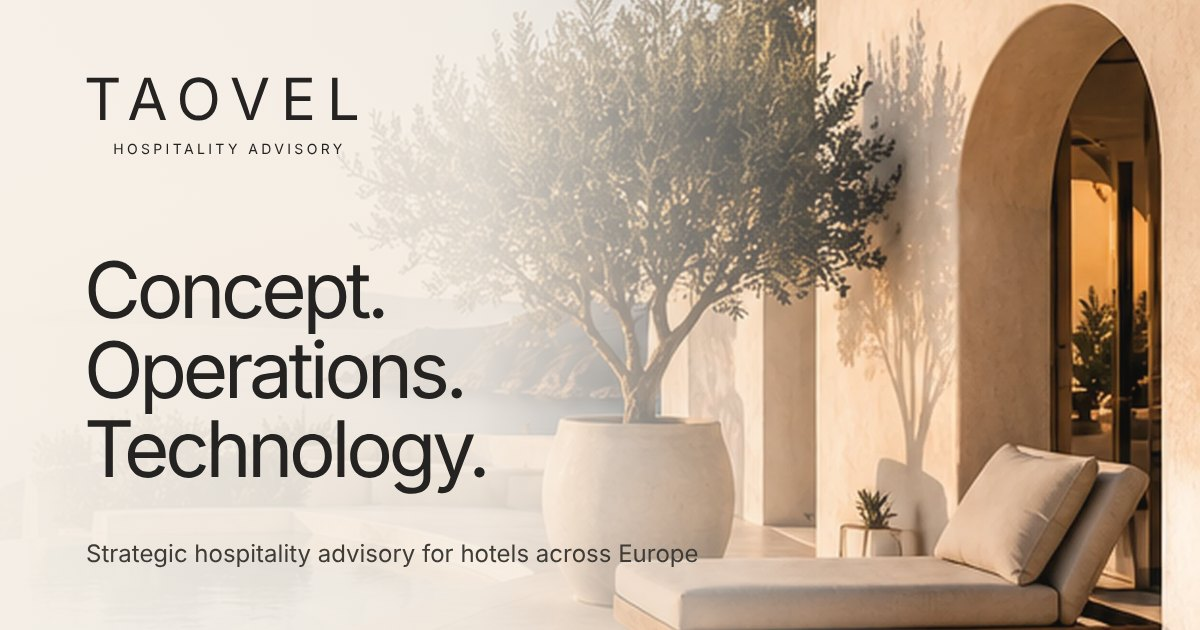
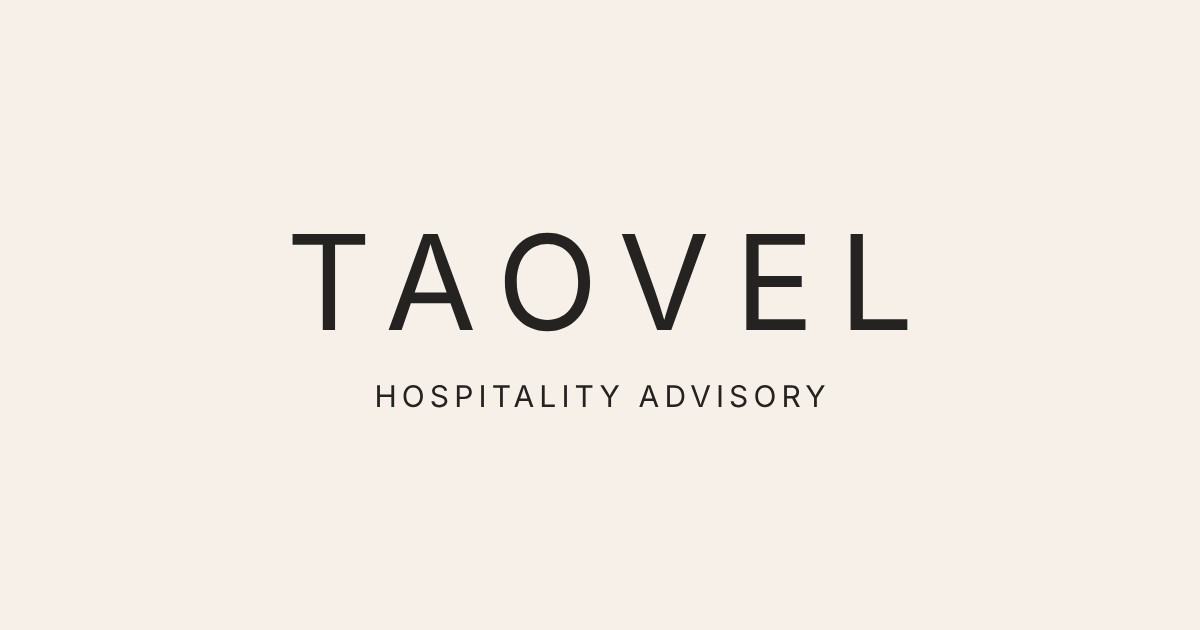
Simplify link preview image to wordmark
Claude-Session: https://claude.ai/code/session_01RBjmVimQnrjfwdFvvBbz1L

diff --git a/index.html b/index.html
@@ -3,7 +3,7 @@
 <head>
 <meta charset="utf-8"><meta name="viewport" content="width=device-width, initial-scale=1"><meta name="theme-color" content="#f5efe6">
 <meta name="description" content="TAOVEL is a Europe-focused hospitality advisory connecting hotel concept and design, operations and technology for independent and boutique hotels.">
-<meta property="og:title" content="TAOVEL — Hospitality Advisory"><meta property="og:description" content="Concept. Operations. Technology. Strategic hospitality advisory for hotels across Europe."><meta property="og:type" content="website"><meta property="og:url" content="https://puktao.github.io/Taovel/"><meta property="og:site_name" content="TAOVEL Hospitality Advisory"><meta property="og:image" content="https://puktao.github.io/Taovel/assets/og-image.jpg"><meta property="og:image:width" content="1200"><meta property="og:image:height" content="630"><meta property="og:image:alt" content="TAOVEL Hospitality Advisory — Concept. Operations. Technology."><meta name="twitter:card" content="summary_large_image"><meta name="twitter:title" content="TAOVEL — Hospitality Advisory"><meta name="twitter:description" content="Concept. Operations. Technology. Strategic hospitality advisory for hotels across Europe."><meta name="twitter:image" content="https://puktao.github.io/Taovel/assets/og-image.jpg"><link rel="canonical" href="https://puktao.github.io/Taovel/"><link rel="icon" href="favicon.ico" sizes="any"><link rel="icon" type="image/png" sizes="32x32" href="assets/favicon-32.png"><link rel="apple-touch-icon" href="assets/apple-touch-icon.png">
+<meta property="og:title" content="TAOVEL — Hospitality Advisory"><meta property="og:description" content="Concept. Operations. Technology. Strategic hospitality advisory for hotels across Europe."><meta property="og:type" content="website"><meta property="og:url" content="https://puktao.github.io/Taovel/"><meta property="og:site_name" content="TAOVEL Hospitality Advisory"><meta property="og:image" content="https://puktao.github.io/Taovel/assets/og-image.jpg?v=2"><meta property="og:image:width" content="1200"><meta property="og:image:height" content="630"><meta property="og:image:alt" content="TAOVEL Hospitality Advisory logo"><meta name="twitter:card" content="summary_large_image"><meta name="twitter:title" content="TAOVEL — Hospitality Advisory"><meta name="twitter:description" content="Concept. Operations. Technology. Strategic hospitality advisory for hotels across Europe."><meta name="twitter:image" content="https://puktao.github.io/Taovel/assets/og-image.jpg?v=2"><link rel="canonical" href="https://puktao.github.io/Taovel/"><link rel="icon" href="favicon.ico" sizes="any"><link rel="icon" type="image/png" sizes="32x32" href="assets/favicon-32.png"><link rel="apple-touch-icon" href="assets/apple-touch-icon.png">
 <title>TAOVEL — Hospitality Advisory | Europe</title>
 <style>
 :root{--cream:#f6f0e8;--paper:#fbf7f0;--sand:#e8ddce;--olive:#5d5b36;--olive2:#464629;--ink:#242321;--muted:#66645e;--line:rgba(65,59,45,.25);--serif:Georgia,'Times New Roman',serif;--sans:Inter,Avenir,'Segoe UI',Arial,sans-serif;--max:1440px}

diff --git a/privacy.html b/privacy.html
@@ -4,7 +4,7 @@
 <meta charset="utf-8"><meta name="viewport" content="width=device-width, initial-scale=1"><meta name="theme-color" content="#f5efe6">
 <title>Privacy Policy — TAOVEL Hospitality Advisory</title>
 <meta name="description" content="How TAOVEL Hospitality Advisory collects, uses and protects personal data submitted through this website.">
-<meta name="robots" content="index,follow"><link rel="icon" href="favicon.ico" sizes="any"><link rel="icon" type="image/png" sizes="32x32" href="assets/favicon-32.png"><link rel="apple-touch-icon" href="assets/apple-touch-icon.png"><meta property="og:title" content="Privacy Policy — TAOVEL Hospitality Advisory"><meta property="og:image" content="https://puktao.github.io/Taovel/assets/og-image.jpg"><link rel="canonical" href="https://puktao.github.io/Taovel/privacy.html">
+<meta name="robots" content="index,follow"><link rel="icon" href="favicon.ico" sizes="any"><link rel="icon" type="image/png" sizes="32x32" href="assets/favicon-32.png"><link rel="apple-touch-icon" href="assets/apple-touch-icon.png"><meta property="og:title" content="Privacy Policy — TAOVEL Hospitality Advisory"><meta property="og:image" content="https://puktao.github.io/Taovel/assets/og-image.jpg?v=2"><link rel="canonical" href="https://puktao.github.io/Taovel/privacy.html">
 <style>
 :root{--cream:#f6f0e8;--paper:#fbf7f0;--olive:#5d5b36;--olive2:#464629;--ink:#242321;--muted:#66645e;--line:rgba(65,59,45,.25);--serif:Georgia,'Times New Roman',serif;--sans:Inter,Avenir,'Segoe UI',Arial,sans-serif}
 *{box-sizing:border-box}html{scroll-behavior:smooth}
